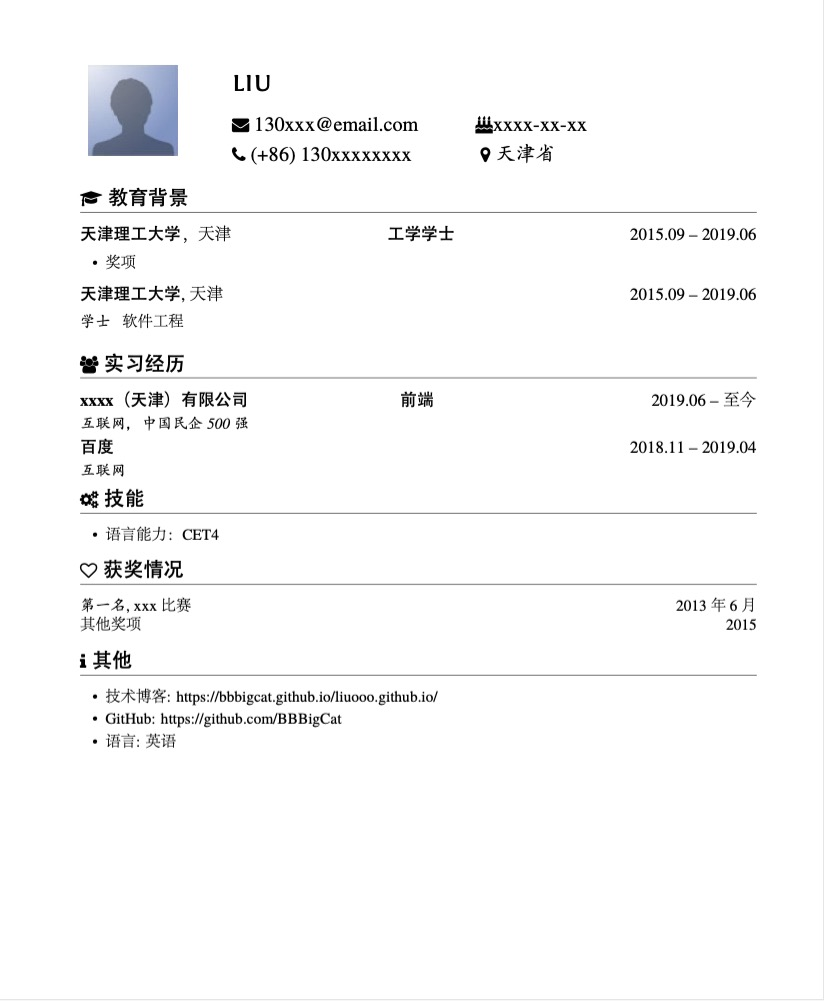
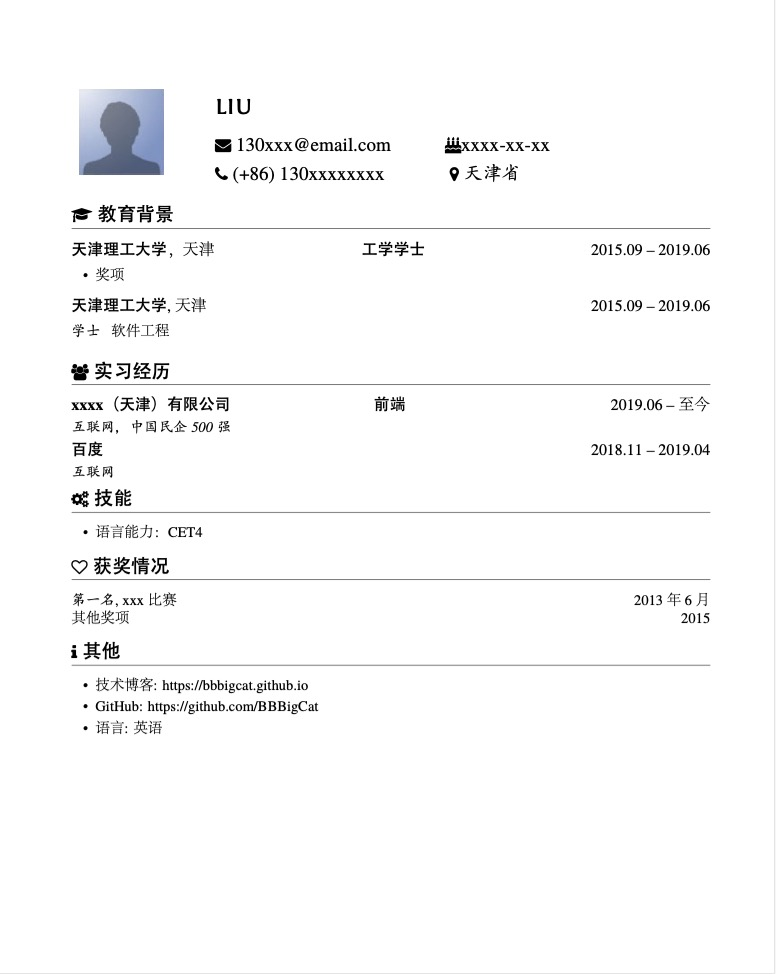
feat: 修改 demo 中个人博客的链接 -.-

diff --git a/pic_resume/pic_resume.tex b/pic_resume/pic_resume.tex
@@ -71,7 +71,7 @@
 \section{\faInfo\ 其他}
 % increase linespacing [parsep=0.5ex]
 \begin{itemize}[parsep=0.5ex]
-  \item 技术博客: https://bbbigcat.github.io/liuooo.github.io/
+  \item 技术博客: https://bbbigcat.github.io
   \item GitHub: https://github.com/BBBigCat
   \item 语言: 英语
 \end{itemize}
